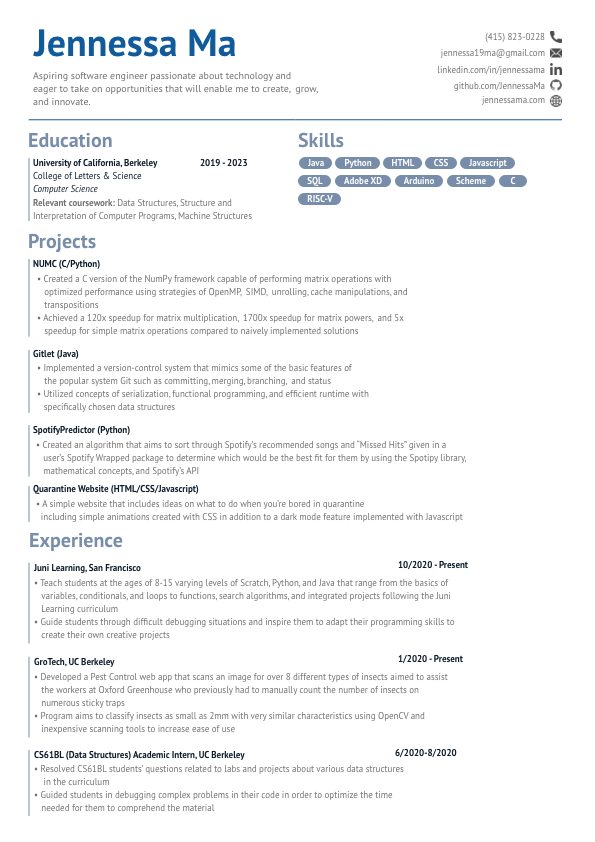
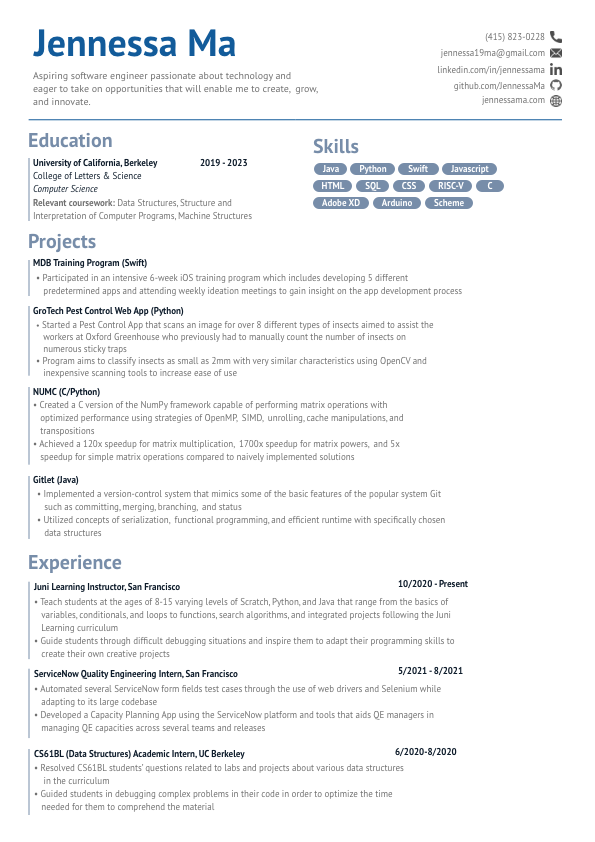
8/17/21 update

Changed region(s): [[0.0303, 0.3088, 0.7866, 0.9572], [0.484, 0.1544, 0.8773, 0.247]]

diff --git a/about.html b/about.html
@@ -19,13 +19,13 @@
     <div id="content">
       <img src="assets/images/pfp.jpg" alt="profile">
       <div id="text">
-        <p>Hello! My name is Jennessa Ma and I am a second year student at UC Berkeley majoring in computer science.</p>
+        <p>Hello! My name is Jennessa Ma and I am a third year student at UC Berkeley majoring in computer science.</p>
         <p>I am passionate for technology and always excited to learn, grow, innovate, and create. Starting from high school
            robotics to university level software engineering projects, I enjoy challenging myself to new and exciting opportunities
            that enable me with the skills needed to create more efficient and creative products. I am always ecstatic to take on learning
            experiences through clubs and organizations while pushing myself to expand my skillset. </p>
-        <p>I am currently attempting to create my very first app: Check Splitter. With my current knowledge of multiple programming languages,
-           as well as some front end and design princples, I hope to successfully learn Swift and create my first simple app within this year.</p>
+        <p>I am currently participating in a react native training program to become more versatile in terms of app development 
+          through the Mobile Developers of Berkeley organization. </p>
       </div>
     </div>
   </body>

diff --git a/resume.html b/resume.html
@@ -16,6 +16,6 @@
       <li><a href="about.html">About</a></li>
       <li><a href="index.html">Home</a></li>
     </ul>
-    <img src="assets/images/resume_2.png" alt="resume" width="70%" style="margin: 0% 15%;">
+    <img src="assets/images/resume.png" alt="resume" width="70%" style="margin: 0% 15%;">
   </body>
 </html>
